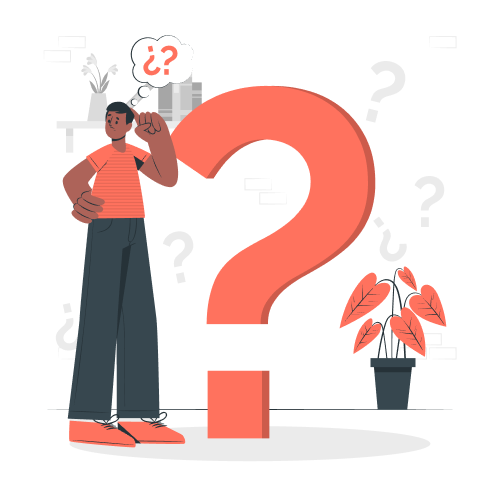
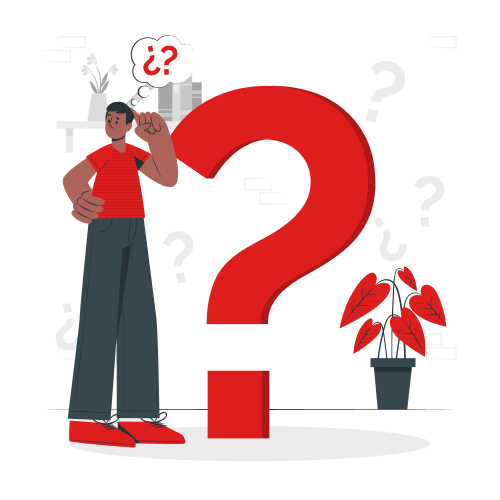
fix saom

diff --git a/src/components/forms/template/AllCreatePost/index.tsx b/src/components/forms/template/AllCreatePost/index.tsx
@@ -15,10 +15,12 @@ import styles from './style.module.scss'
 
 export const AllCreatePost: React.FC = (): JSX.Element => {
   const defaultLastContent = 'よかったら保存してみてね `！`'
+  const storageValue = sessionStorage.getItem('instaPost')
+  const sessionDefaultValue = storageValue ? JSON.parse(storageValue) : null
 
   const methods = useForm(
     {
-      defaultValues: {
+      defaultValues: sessionDefaultValue ?? {
         color: 'red',
         first: '',
         second: '',
@@ -28,7 +30,7 @@ export const AllCreatePost: React.FC = (): JSX.Element => {
       }
     }
   )
-  const { register, watch } = methods
+  const { register, watch, getValues, reset, formState: { isValid } } = methods
   const [ color, setColor ] = useState<'red' | 'green' | 'blue'>('red')
   const colorWatch = watch('color')
   const firstWatch = watch('first')
@@ -47,10 +49,26 @@ export const AllCreatePost: React.FC = (): JSX.Element => {
       })
   }
 
+  const save = () => {
+    const value = getValues()
+    sessionStorage.setItem('instaPost', JSON.stringify(value))
+  }
+
+  const clear = () => {
+    sessionStorage.removeItem('instaPost')
+    reset({
+      color: 'red',
+      first: '',
+      second: '',
+      third: '',
+      forth: '',
+      last: defaultLastContent
+    })
+  }
+
   useEffect(() => {
     setColor(colorWatch as 'red' | 'green' | 'blue')
   }, [colorWatch, setColor])
-
 
   return (
     <FormProvider {...methods}>
@@ -113,7 +131,11 @@ export const AllCreatePost: React.FC = (): JSX.Element => {
                 </Stack>
               </Box>
               <div className={styles.buttonArea}>
-                <Button onClick={handleCopy} type="prime">Copy</Button>
+                <Button onClick={save} type="warning" disabled={!isValid}>保存</Button>
+                <Button onClick={handleCopy} type="prime" disabled={!isValid}>コピー</Button>
+              </div>
+              <div className={styles.buttonArea}>
+                <Button onClick={clear} type="dangerous">クリア</Button>
               </div>
             </Box>
           </TabPanel>

diff --git a/src/components/forms/template/CreatePost/index.tsx b/src/components/forms/template/CreatePost/index.tsx
@@ -77,14 +77,22 @@ export const CreatePost: React.FC<Props> = ({
     if (isOpen) downloadImage()
   }, [isOpen])
 
-  const register = fieldName ? context.register(fieldName) : myForm.register('markdown')
+  const register = fieldName ? context.register(fieldName, {
+    required: true
+  }) : myForm.register('markdown', {
+    required: true
+  })
+
+  const isValid = fieldName ?
+    context.getValues(fieldName) :
+    myForm.getValues('markdown')
 
   return (
     <>
       <TextAreaElement {...register} required />
       <MarkDownImage color={color} markdown={markdown} type={type} ref={ref} />
       <div className={styles.buttonArea}>
-        <Button onClick={onOpen} type="prime">画像</Button>
+        <Button onClick={onOpen} type="prime" disabled={!isValid}>画像</Button>
       </div>
 
       <Modal isOpen={isOpen} onClose={onClose}>
@@ -98,10 +106,9 @@ export const CreatePost: React.FC<Props> = ({
           ): (
             <Image
             src={imageSrc}
-            alt="Description of Image" // 画像の説明
-            width={500}  // 表示幅
-            height={500} // 表示高さ
-            layout="responsive" // レイアウトオプション
+            alt="Description of Image"
+            width={500}
+            height={500}
           />
           )}
           </ModalBody>

diff --git a/src/components/forms/template/MarkDownImage/css/markdown.scss b/src/components/forms/template/MarkDownImage/css/markdown.scss
@@ -5,6 +5,7 @@
 
   p {
     font-size: adjust-font-size(16px);
+    font-weight: bold;
   }
 
   ul > li { list-style-type: disc; }
@@ -15,19 +16,22 @@
 
     li {
       font-size: adjust-font-size(16px);
+      font-weight: bold;
     }
   }
 
   strong {
     font-size: adjust-font-size(20px);
+    margin: 0 adjust-scale(15px);
   }
 }
 
 %mark-down-welcome {
-  font-size: adjust-font-size(18px);
+  font-size: adjust-font-size(16px);
   text-align: center;
 
   p {
+    font-weight: bold;
     margin-top: adjust-scale(700px - $paddingValue);
   }
 
@@ -63,6 +67,7 @@
   text-align: center;
 
   p {
+    font-weight: bold;
     height: min-content;
     max-height: 100%;
     width: 100%;

diff --git a/src/components/forms/template/MarkDownImage/index.tsx b/src/components/forms/template/MarkDownImage/index.tsx
@@ -14,6 +14,15 @@ type Props = {
   type: postImageType
 }
 
+/*
+ * 画像元データ
+ * https://storyset.com/illustration/blood-research/cuate
+ * https://storyset.com/illustration/questions/cuate
+ * https://storyset.com/illustration/startled/cuate
+ * https://storyset.com/illustration/creativity/cuate
+ * https://storyset.com/illustration/welcome/cuate
+ */
+
 export const MarkDownImage = React.forwardRef(
   function RefComponent (
     props: Props,

diff --git a/src/components/forms/atoms/FormControlElement/index.tsx b/src/components/forms/atoms/FormControlElement/index.tsx
@@ -43,7 +43,7 @@ export const FormControlElement: React.FC<Props> = (
   )
 
   return (
-    <FormControl isInvalid={!isValid}>
+    <FormControl>
       <div className={styles.box}>
         {isShowLabel && label && <FormLabel>{label}</FormLabel>}
         <div className={styles.inputBox}>{children}</div>

diff --git a/src/components/forms/template/AllCreatePost/style.module.scss b/src/components/forms/template/AllCreatePost/style.module.scss
@@ -1,3 +1,11 @@
 .buttonArea {
-  @apply mx-auto mt-16 w-8/12;
+  @apply mx-auto mt-16;
+
+  align-items: center;
+  display: flex;
+  justify-content: space-between;
+
+  > * {
+    width: 150px;
+  }
 }

diff --git a/tailwind/colors.js b/tailwind/colors.js
@@ -46,7 +46,7 @@ const colors = {
   ...light,
   ...dark,
   ...gradient,
-  postRed: '#FF725E',
+  postRed: '#DE1D1D',
   postGreen: '#3CA85B',
   postBlue: '#407BFF',
 }
